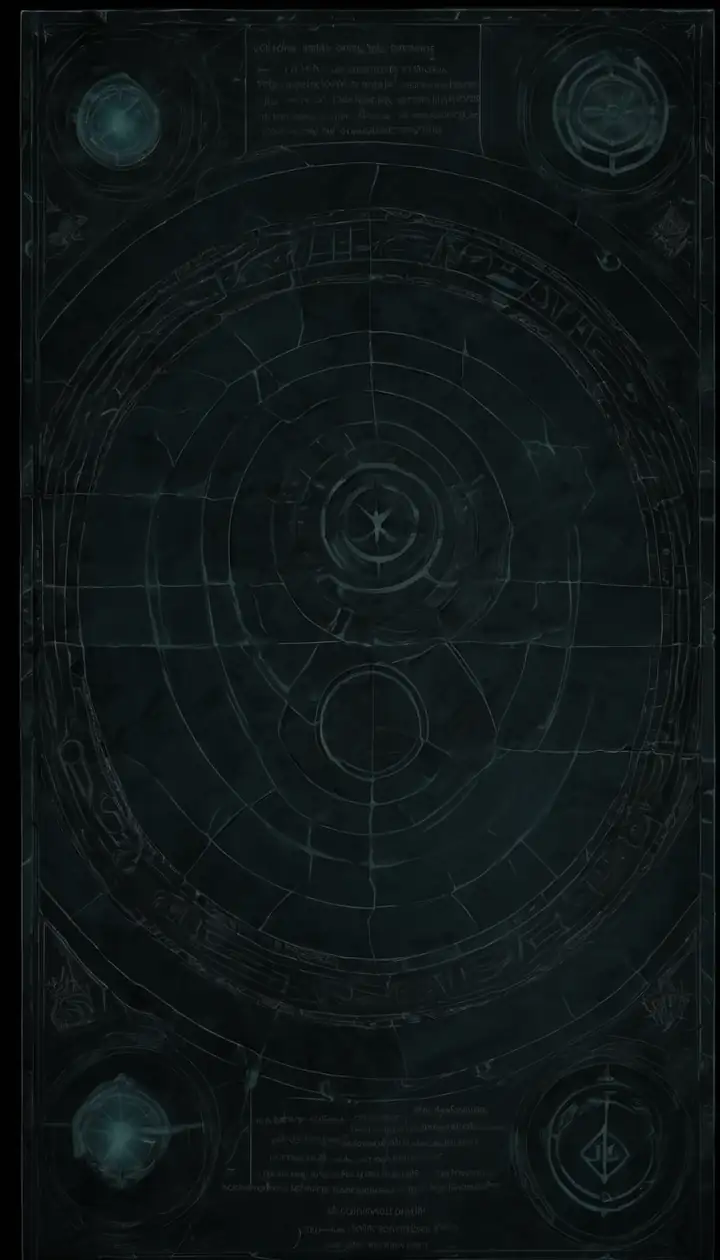
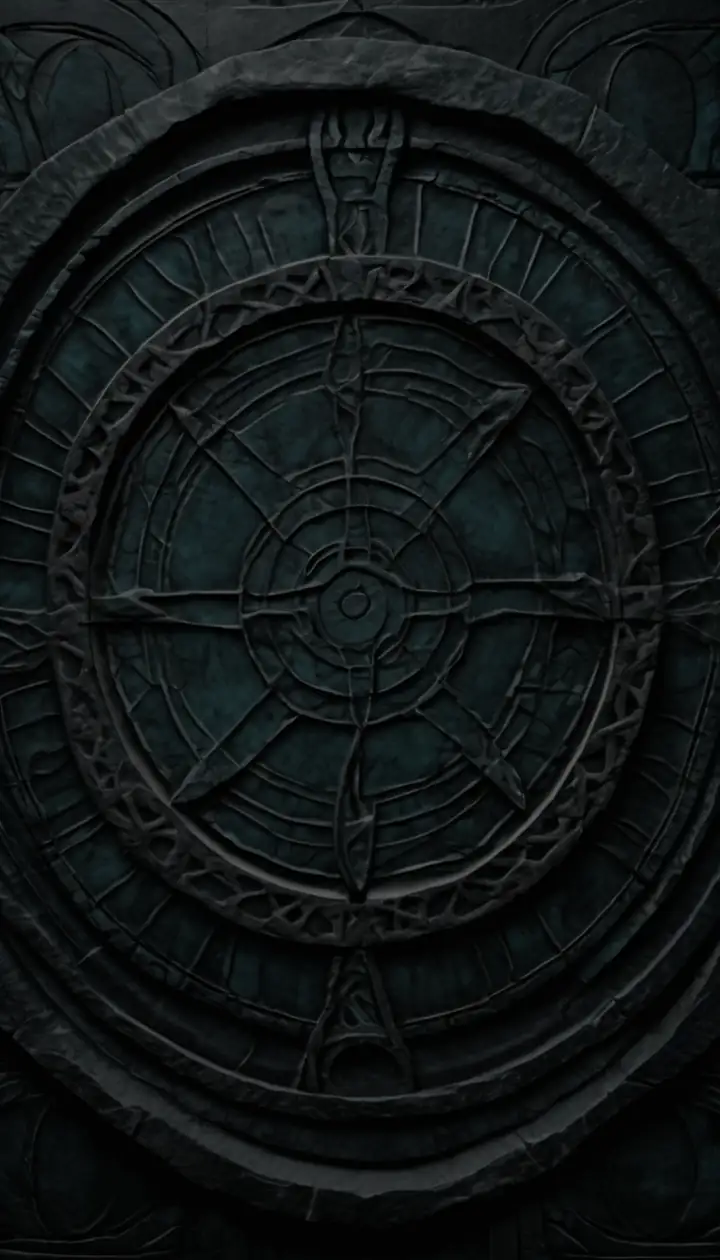
Re-roll the rune-slate backdrop without the faux text
The first backdrop (seed 7101) asked SDXL for a "board game table" and got
rulebook-like faux-text panels at the top and bottom. The prompt now asks for a
bare slab, and the negative names every kind of writing. backdrop.py gains --cpu,
SDXL base 1.0 in bfloat16 through diffusers with ComfyUI's sampler settings, so a
cloud session can re-roll it. The new image is seed 7302 of 7301-7304 (7304 had
rune letters along its top edge), finished as before: 34 KB.

Claude-Session: https://claude.ai/code/session_01H5QkC47mx4n2kLYb7qqcj4

diff --git a/src/Spellbound.Web/wwwroot/app.css b/src/Spellbound.Web/wwwroot/app.css
@@ -468,7 +468,7 @@ body {
     background-size: 97px 89px, 151px 137px, 211px 233px, auto, auto, auto;
 }
 
-/* Painted rune-slate: one painted backdrop (wwwroot/backdrops, 27 KB), fetched only by this look. It covers the first
+/* Painted rune-slate: one painted backdrop (wwwroot/backdrops, 34 KB), fetched only by this look. It covers the first
    screen at its own size (720 x 1260 px) and fades into the stone colour below, rather than stretching over a long page. */
 :root[data-look="slate"] {
     --paper-deep: #15181d;

diff --git a/tools/tile-art/backdrop.py b/tools/tile-art/backdrop.py
@@ -1,10 +1,14 @@
-"""Generates the rune-slate page backdrop (docs/theme.md) on a local ComfyUI with SDXL base, and finishes it.
+"""Generates the rune-slate page backdrop (docs/theme.md) with SDXL base 1.0, and finishes it.
 
-    python tools/tile-art/backdrop.py [out_dir]
+    python tools/tile-art/backdrop.py [out_dir]                 # on a local ComfyUI, two candidates per seed
+    python tools/tile-art/backdrop.py --cpu out_dir seed...     # on the CPU with diffusers (about 6 min an image)
+    python tools/tile-art/backdrop.py --finish <png>
 
-Writes backdrop-<seed>-<n>.png at 768x1344 into out_dir (default tools/tile-art/out, gitignored). The one in use is
-backdrop-7101-1; finish it with Pillow (resize to 720 wide, colour 0.55, brightness 0.42, WebP quality 60) into
-src/Spellbound.Web/wwwroot/backdrops/rune-slate.webp, as --finish <png> does.
+Writes backdrop-<seed>[-<n>].png at 768x1344 into out_dir (default tools/tile-art/out, gitignored). The one in use is
+backdrop-7302, made with --cpu (diffusers' noise differs from ComfyUI's, so a seed gives a different image in each).
+--finish resizes it with Pillow to 720 wide, colour 0.55, brightness 0.42, WebP quality 60, into
+src/Spellbound.Web/wwwroot/backdrops/rune-slate.webp. --cpu and --finish need a venv with torch, diffusers,
+transformers, accelerate and pillow; --cpu downloads SDXL base 1.0 from Hugging Face the first time (about 7 GB).
 """
 
 import json
@@ -14,13 +18,32 @@ from pathlib import Path
 
 from generate import call, graph
 
-PROMPT = ("top-down view of an ancient dark slate stone table surface, faintly engraved with a large arcane summoning "
-          "circle, thin rune rings and geometric sigils, the engravings glowing very faintly cold teal, deep blue-black "
-          "stone, subtle cracks, dim candlelight from above, dark fantasy board game table, low contrast, very dark, "
-          "the centre calm")
-NEGATIVE = ("bright, text, letters, watermark, signature, people, hands, objects, candles, books, skull, saturated, "
-            "purple, magenta, gold, frame, border, photograph")
-SEEDS = (7101, 7202)
+# The first backdrop (seed 7101) asked for a "board game table" and got faux-text panels, like a rulebook's, at its top
+# and bottom; this prompt asks for a bare slab instead, and the negative names every kind of writing.
+PROMPT = ("top-down view of an ancient dark slate stone slab, seamless stone surface filling the whole image, faintly "
+          "engraved with a large arcane summoning circle, thin rune rings and geometric sigils, the engravings glowing "
+          "very faintly cold teal, deep blue-black stone, subtle cracks, dim candlelight from above, dark fantasy, "
+          "low contrast, very dark, the centre calm")
+NEGATIVE = ("text, letters, words, writing, handwriting, inscription, caption, label, paragraph, typography, font, "
+            "document, page, paper, panel, text box, card, book, map legend, diagram, infographic, user interface, "
+            "bright, watermark, signature, people, hands, objects, candles, books, skull, saturated, purple, magenta, "
+            "gold, frame, border, photograph")
+SEEDS = (7301, 7302, 7303, 7304)
+
+
+def cpu(out, seeds):
+    """SDXL base 1.0 in bfloat16 on the CPU, with ComfyUI's sampler settings (DPM++ 2M Karras, 30 steps, cfg 7)."""
+    import torch
+    from diffusers import DPMSolverMultistepScheduler, StableDiffusionXLPipeline
+
+    pipe = StableDiffusionXLPipeline.from_pretrained("stabilityai/stable-diffusion-xl-base-1.0",
+                                                     torch_dtype=torch.bfloat16, variant="fp16", use_safetensors=True)
+    pipe.scheduler = DPMSolverMultistepScheduler.from_config(pipe.scheduler.config, use_karras_sigmas=True)
+    for seed in seeds:
+        image = pipe(PROMPT, negative_prompt=NEGATIVE, width=768, height=1344, num_inference_steps=30,
+                     guidance_scale=7.0, generator=torch.Generator().manual_seed(seed)).images[0]
+        image.save(out / f"backdrop-{seed}.png")
+        print(f"seed {seed}: done")
 
 
 def finish(png):
@@ -37,6 +60,10 @@ def finish(png):
 def main():
     if sys.argv[1:2] == ["--finish"]:
         return finish(sys.argv[2])
+    if sys.argv[1:2] == ["--cpu"]:
+        out = Path(sys.argv[2])
+        out.mkdir(parents=True, exist_ok=True)
+        return cpu(out, [int(seed) for seed in sys.argv[3:]] or SEEDS)
     out = Path(sys.argv[1] if len(sys.argv) > 1 else Path(__file__).parent / "out")
     out.mkdir(parents=True, exist_ok=True)
     for seed in SEEDS:

diff --git a/src/Spellbound.Web/Components/Looks.cs b/src/Spellbound.Web/Components/Looks.cs
@@ -18,7 +18,7 @@ public static class Looks
         new("sigil", "Sigil night", "Indigo-black, a faint summoning circle behind the board, a soft glow.", "About 1.5 KB of CSS"),
         new("table", "Candlelit table", "A pool of warm light on dark wood, the board on a brass-rimmed felt tray.", "About 1 KB of CSS"),
         new("dust", "Arcane dust", "Star and ember motes over a faint nebula.", "About 1 KB of CSS"),
-        new("slate", "Painted rune-slate", "A painted slate table with engraved runes.", "A 27 KB image, once"),
+        new("slate", "Painted rune-slate", "A painted slate table with engraved runes.", "A 34 KB image, once"),
     ];
 
     public static Look Default => All[0];

diff --git a/docs/theme.md b/docs/theme.md
@@ -33,7 +33,7 @@ game has five looks to swap between, and the owner chooses by playing in them. E
 | Sigil night | `sigil` | indigo-black #0f0e15, a cool grain, a faint summoning circle (inline SVG) behind the board, a soft violet glow | about 1.5 KB of CSS |
 | Candlelit table | `table` | a warm pool of light on dark wood grain (gradients); the map sits on a brass-rimmed felt tray (`.board-tray`) | about 1 KB of CSS |
 | Arcane dust | `dust` | blue-black #0a0a10, the cool grain, three tiled layers of star and ember motes over a faint nebula | about 1.3 KB of CSS |
-| Painted rune-slate | `slate` | the painted backdrop `wwwroot/backdrops/rune-slate.webp`, fading into #0b0d10 below it | 27 KB, once |
+| Painted rune-slate | `slate` | the painted backdrop `wwwroot/backdrops/rune-slate.webp`, fading into #0b0d10 below it | 34 KB, once |
 
 All five blocks are in `app.css`, so every player downloads their CSS (about 5 KB before compression). The rune-slate
 image is referenced only inside the `slate` selector, so only players who pick it fetch it; the browser's cache keeps
@@ -62,11 +62,12 @@ cookie from the request and sets `data-look` on `<html>`, so a page is drawn in 
 unknown or missing cookie gives the grimoire. The links skip Blazor's enhanced navigation, so the whole page is loaded
 again in the new look.
 
-**The backdrop.** `rune-slate.webp` (720 px wide, 27 KB) was painted with SDXL base 1.0 on a local ComfyUI by
-`tools/tile-art/backdrop.py` and finished by `backdrop.py --finish` ([tile art](tile-art.md)). It is dedicated to the
-public domain (CC0 1.0); its seed and settings are in `wwwroot/backdrops/LICENSE.md`. It is a trial: it has faux-text
-blocks near the top and bottom, which a re-roll (another seed, on the owner's ComfyUI) or a centre crop would remove
-if the look is kept.
+**The backdrop.** `rune-slate.webp` (720 px wide, 34 KB) is a carved slate slab with a summoning circle, painted with
+SDXL base 1.0 by `tools/tile-art/backdrop.py --cpu` (on the CPU, so a cloud session can re-roll it) and finished by
+`backdrop.py --finish` ([tile art](tile-art.md)). It is dedicated to the public domain (CC0 1.0); its seed and
+settings are in `wwwroot/backdrops/LICENSE.md`. It replaced a first trial from the owner's ComfyUI (24 Oct 2026),
+whose prompt asked for a "board game table" and got faux-text panels, like a rulebook's, at the top and bottom; the
+prompt now asks for a bare slab and its negative names every kind of writing.
 
 ## The raised board
 

diff --git a/src/Spellbound.Web/wwwroot/backdrops/LICENSE.md b/src/Spellbound.Web/wwwroot/backdrops/LICENSE.md
@@ -1,10 +1,11 @@
 # Backdrop images
 
-`rune-slate.webp` (27 KB) was made by Jakob Lomander Boman on 24 Oct 2026 with Stable Diffusion XL base 1.0
-(`sd_xl_base_1.0.safetensors`) in a local ComfyUI, using `tools/tile-art/backdrop.py` (candidate `backdrop-7101-1`,
-seed 7101), then finished with `backdrop.py --finish` (720 px wide, colour 0.55, brightness 0.42, WebP quality 60).
-To the extent possible under law, it is dedicated to the public domain under
+`rune-slate.webp` (34 KB) was made on 24 Oct 2026 for Jakob Lomander Boman, in a Claude Code cloud session, with Stable
+Diffusion XL base 1.0 (`stabilityai/stable-diffusion-xl-base-1.0`, CreativeML Open RAIL++-M) on the CPU, using
+`tools/tile-art/backdrop.py --cpu` (seed 7302, chosen from 7301–7304: DPM++ 2M Karras, 30 steps, cfg 7, 768×1344, the
+prompt and negative prompt in the script), then finished with `backdrop.py --finish` (720 px wide, colour 0.55,
+brightness 0.42, WebP quality 60). To the extent possible under law, it is dedicated to the public domain under
 [CC0 1.0](https://creativecommons.org/publicdomain/zero/1.0/).
 
-It is a trial: it has faux-text blocks near the top and bottom, which a re-roll (another seed) or a centre crop would
-remove if the rune-slate look is kept.
+It replaces the first trial (seed 7101, made on the owner's local ComfyUI), which had faux-text blocks near the top and
+bottom.

diff --git a/docs/tile-art.md b/docs/tile-art.md
@@ -72,9 +72,10 @@ grids and parchment) and ask for a top-down landscape instead; and Wild's negati
 no glow at all, so it comes out magenta and `finish.py` desaturates it to ash-violet. The seeds and settings of the
 images in use are in `wwwroot/tiles/LICENSE.md`.
 
-The same ComfyUI makes the page backdrop of the painted rune-slate look ([theme](theme.md), "Looks"):
-`tools/tile-art/backdrop.py` asks for 768×1344 candidates of a dark engraved slate table, and `backdrop.py --finish`
-turns the chosen one into the 720 px WebP in `wwwroot/backdrops/`. Its seed and settings are in
+The page backdrop of the painted rune-slate look ([theme](theme.md), "Looks") comes from
+`tools/tile-art/backdrop.py`: 768×1344 candidates of a dark engraved slate slab, from the same ComfyUI or, with
+`--cpu`, from SDXL base 1.0 on the CPU with diffusers (about 6 minutes an image, so a cloud session can do it; the one
+in use was made that way). `backdrop.py --finish` turns the chosen one into the 720 px WebP in `wwwroot/backdrops/`. Its seed and settings are in
 `wwwroot/backdrops/LICENSE.md`.
 
 ## Trying it
